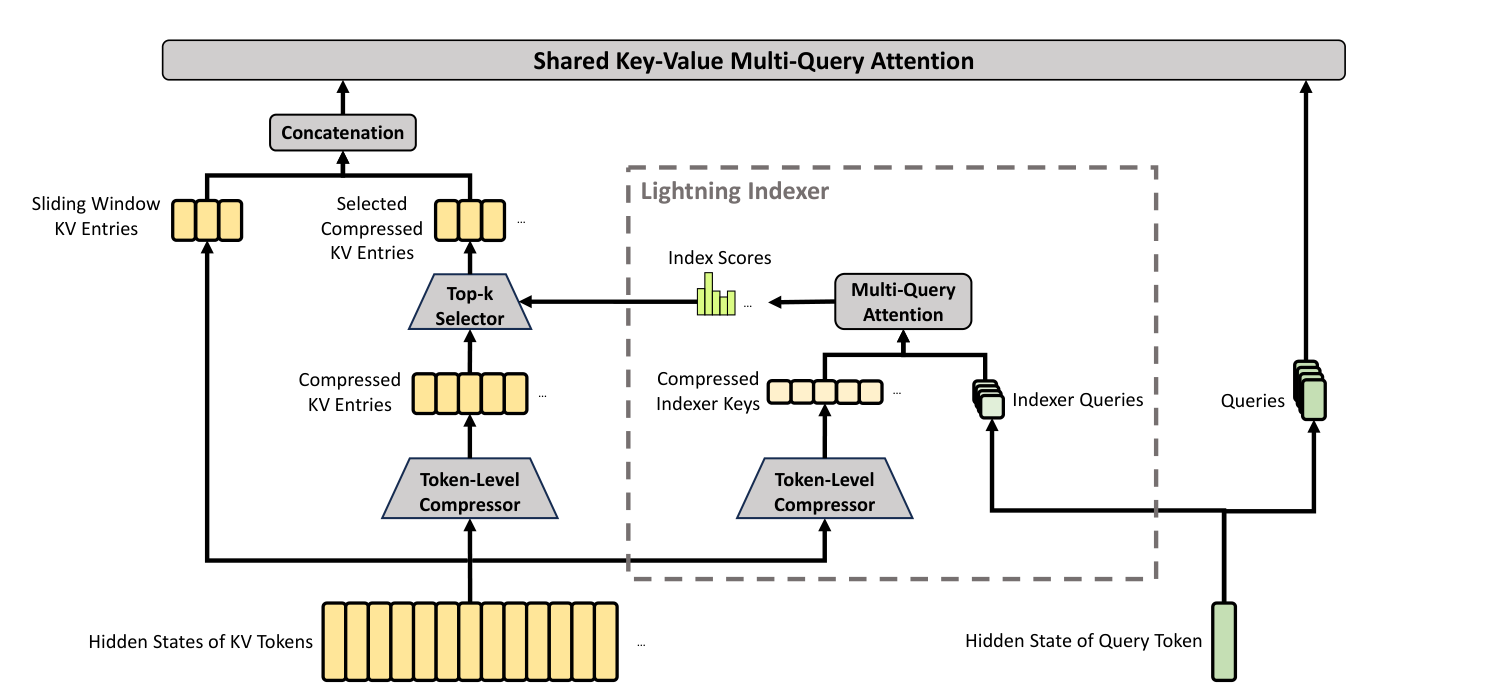
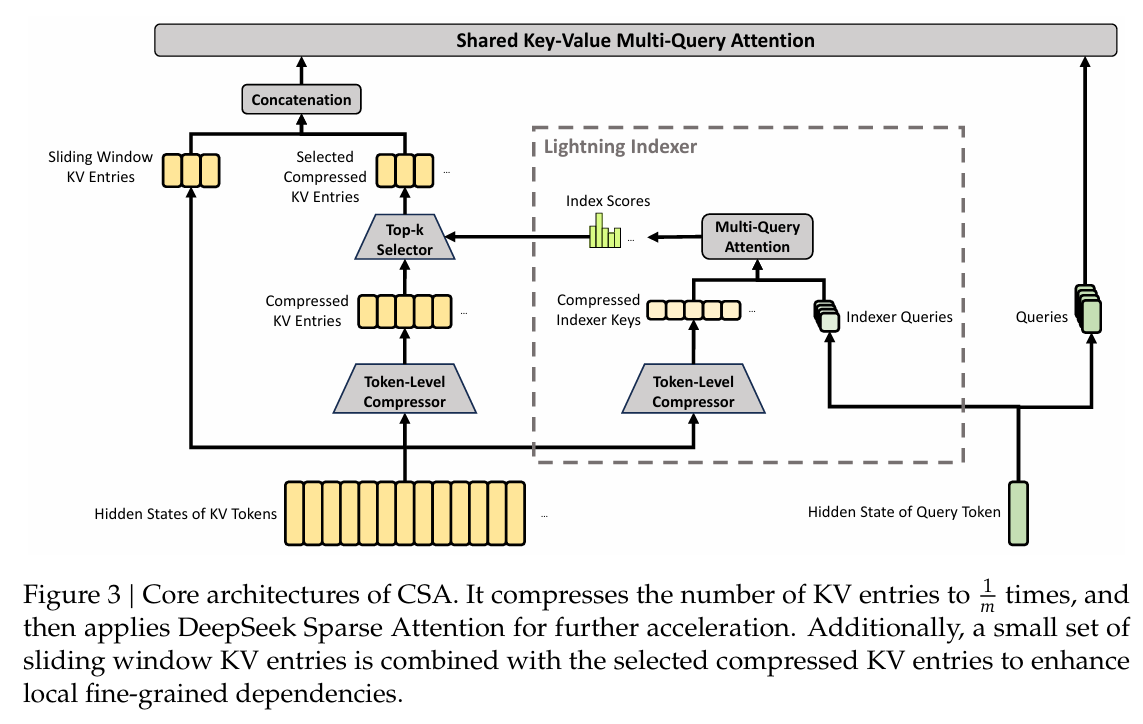
cropped image to correct size

diff --git a/astro-blog/public/styles.css b/astro-blog/public/styles.css
@@ -1524,7 +1524,9 @@ pre code {
 .post-thumbnail img {
     width: 100%;
     height: 100%;
-    object-fit: cover;
+    display: block;
+    object-fit: contain;
+    object-position: center;
 }
 
 .post-content {

diff --git a/astro-blog/src/content/posts/deepseek-v4.md b/astro-blog/src/content/posts/deepseek-v4.md
@@ -12,7 +12,7 @@ tags:
   - "explainer"
   - "llm"
   - "deepseek"
-thumbnail: "/img/deepseek-v4/thumbnail.png"
+thumbnail: "/img/deepseek-v4/thumbnail.png?v=2"
 ---
 
 <p class="d-note">
@@ -33,7 +33,7 @@ That changes the way we should read the release. V4 is not just a bigger open mo
 
 <figure class="d-figure">
     <div class="d-figure-content" style="padding: 10px 10px 0;">
-        <img src="/img/deepseek-v4/fig1-overview.png" alt="Overview figure from the DeepSeek V4 paper showing benchmark performance on the left and inference FLOPs plus KV cache savings on the right" style="max-width:100%;height:auto;display:block;margin:0 auto">
+        <img src="/img/deepseek-v4/fig1-overview.png?v=2" alt="Overview figure from the DeepSeek V4 paper showing benchmark performance on the left and inference FLOPs plus KV cache savings on the right" style="max-width:100%;height:auto;display:block;margin:0 auto">
     </div>
     <figcaption class="d-figure-caption">
         <strong>Figure from the DeepSeek-V4 paper.</strong> Left: V4-Pro-Max against recent frontier models on knowledge, reasoning, and agentic benchmarks. Right: why the paper is strategically interesting at all — much cheaper long-context inference and KV-cache usage than V3.2.
@@ -54,7 +54,7 @@ Before we zoom into the long-context mechanism, it helps to see the whole block 
 
 <figure class="d-figure">
     <div class="d-figure-content" style="padding: 10px;">
-        <img src="/img/deepseek-v4/fig2-architecture.png" alt="Overall DeepSeek V4 architecture with MTP modules, prediction head, residual mixing, pre-block and post-block mixing, CSA or HCA attention, and DeepSeekMoE" style="max-width:100%;height:auto;display:block;margin:0 auto">
+        <img src="/img/deepseek-v4/fig2-architecture.png?v=2" alt="Overall DeepSeek V4 architecture with MTP modules, prediction head, residual mixing, pre-block and post-block mixing, CSA or HCA attention, and DeepSeekMoE" style="max-width:100%;height:auto;display:block;margin:0 auto">
     </div>
     <figcaption class="d-figure-caption">
         <strong>Overall architecture from the paper.</strong> The block has three ideas that matter for the rest of this article: hybrid attention (`CSA / HCA`), stronger residual routing (`mHC` via the residual mixing path), and a large MoE feed-forward stack (`DeepSeekMoE`).
@@ -101,7 +101,7 @@ CSA compresses the KV cache first, then uses a sparse selection step to choose w
 
 <figure class="d-figure">
     <div class="d-figure-content" style="padding: 10px;">
-        <img src="/img/deepseek-v4/fig3-csa.png" alt="CSA diagram from the DeepSeek V4 paper showing token-level compression, Lightning Indexer, top-k selector, and sliding window KV entries" style="max-width:100%;height:auto;display:block;margin:0 auto">
+        <img src="/img/deepseek-v4/fig3-csa.png?v=2" alt="CSA diagram from the DeepSeek V4 paper showing token-level compression, Lightning Indexer, top-k selector, and sliding window KV entries" style="max-width:100%;height:auto;display:block;margin:0 auto">
     </div>
     <figcaption class="d-figure-caption">
         <strong>CSA from the paper.</strong> The key pieces are the token-level compressor, the Lightning Indexer, the top-<em>k</em> selector, and the local sliding window. V4 does not pay full attention cost everywhere. It compresses first, then spends detail selectively.
@@ -126,7 +126,7 @@ HCA makes a different trade. It compresses the KV cache much more aggressively a
 
 <figure class="d-figure">
     <div class="d-figure-content" style="padding: 10px;">
-        <img src="/img/deepseek-v4/fig4-hca.png" alt="HCA diagram from the DeepSeek V4 paper showing heavier KV compression plus a local sliding window" style="max-width:100%;height:auto;display:block;margin:0 auto">
+        <img src="/img/deepseek-v4/fig4-hca.png?v=2" alt="HCA diagram from the DeepSeek V4 paper showing heavier KV compression plus a local sliding window" style="max-width:100%;height:auto;display:block;margin:0 auto">
     </div>
     <figcaption class="d-figure-caption">
         <strong>HCA from the paper.</strong> Same high-level idea as CSA, but the compression is much stronger and the global memory is much coarser. This is where V4 gets a large part of its million-token efficiency.
@@ -217,7 +217,7 @@ One more figure from the paper is useful because it shows the new shape of model
 
 <figure class="d-figure">
     <div class="d-figure-content" style="padding: 10px;">
-        <img src="/img/deepseek-v4/fig10-reasoning-effort.png" alt="Figure comparing HLE and TerminalBench 2.0 performance versus token usage across different reasoning effort settings" style="max-width:100%;height:auto;display:block;margin:0 auto">
+        <img src="/img/deepseek-v4/fig10-reasoning-effort.png?v=2" alt="Figure comparing HLE and TerminalBench 2.0 performance versus token usage across different reasoning effort settings" style="max-width:100%;height:auto;display:block;margin:0 auto">
     </div>
     <figcaption class="d-figure-caption">
         <strong>Reasoning effort from the paper.</strong> V4 is not a single point on a benchmark chart. The model is explicitly designed to trade more tokens for better outcomes. That is exactly the test-time scaling story the paper frames as the next frontier.
